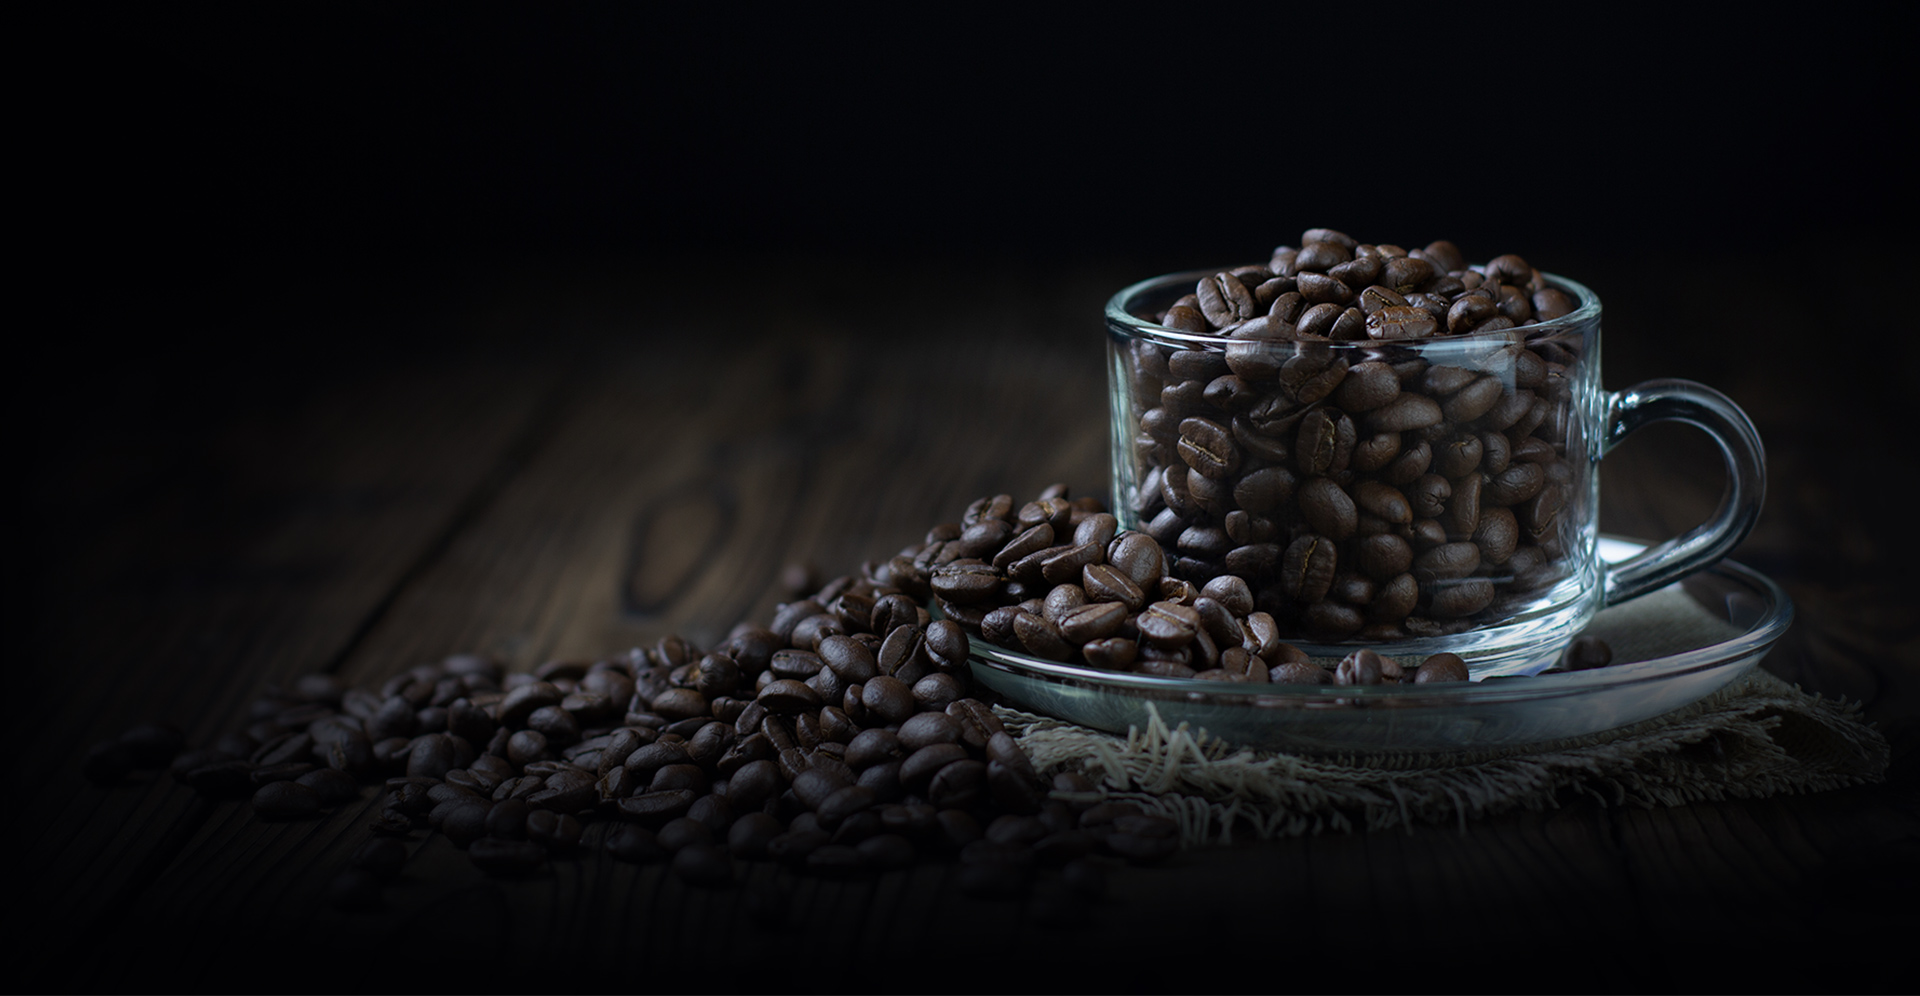
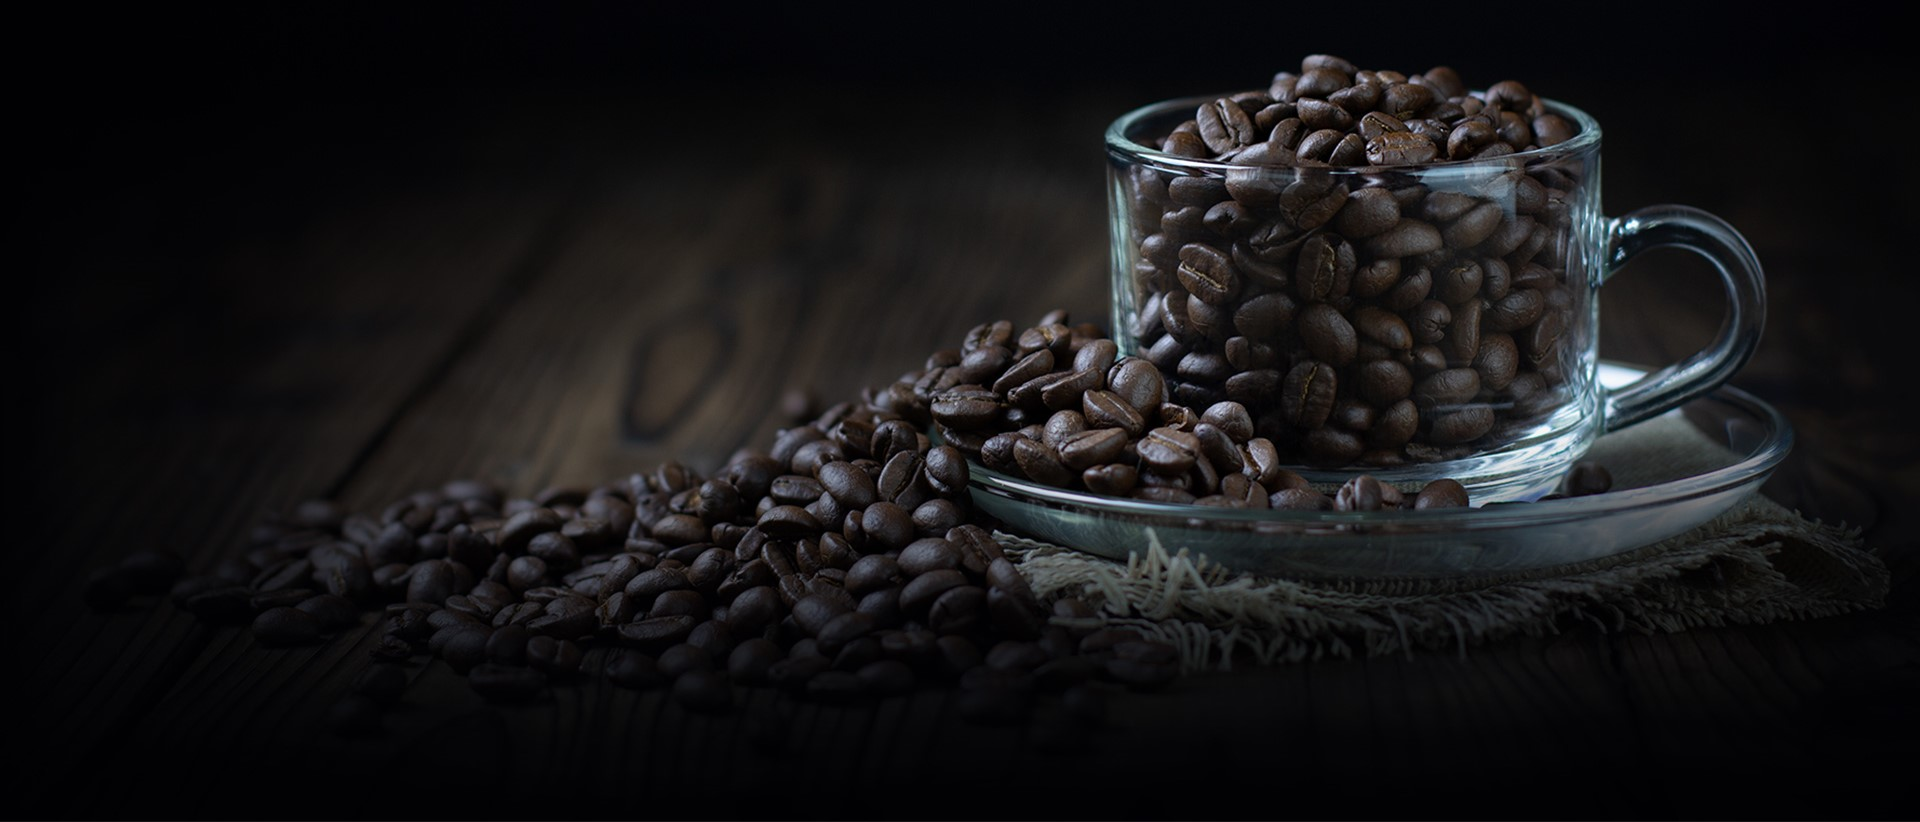
header completed

diff --git a/index.html b/index.html
@@ -22,7 +22,7 @@
 <body>
 
     <!-- Navbar Section Start -->
-    <nav id="navbar" class="navbar navbar-expand-lg fixed-top">
+    <nav id="navbar" class="navbar navbar-expand-lg sticky-top">
         <div class="container">
             <a class="navbar-brand" href="#home">
                 <img src="assets/images/logo.png" alt="Coffee Shop" title="Coffee Shop">
@@ -70,6 +70,23 @@
     </nav>
     <!-- Navbar Section End -->
 
+    <!-- Header Section Start -->
+    <header id="header" class="align-items-center">
+        <section class="container">
+            <div class="row content align-items-center">
+                <div class="col col-lg-6 text-center text-md-start py-5">
+                    <h1 class="display-3 fw-semibold text-uppercase mt-5 mb-3">
+                        fresh coffee in the morning
+                    </h1>
+                    <p class="m-0 lead mb-4">
+                        Lorem ipsum dolor sit amet consectetur adipisicing elit. Deserunt facere eius voluptatem sed itaque numquam delectus recusandae a.
+                    </p>
+                    <a class="a" href="#">Get Yours Now</a>
+                </div>
+            </div>
+        </section>
+    </header>
+    <!-- Header Section End -->
 
 
 

diff --git a/assets/css/style.css b/assets/css/style.css
@@ -3,7 +3,7 @@
 
 :root {
     --primary-color: #d3ad7f;
-    --secondary-color: ;
+    --secondary-color: #13131a;
     --dark-color: #000;
     --light-color: #fff;
 }
@@ -22,10 +22,23 @@ body {
     color: var(--light-color);
 }
 
+.a {
+    text-decoration: none;
+    color: var(--light-color);
+    background-color: var(--primary-color);
+    padding: 10px 30px;
+    transition: .3s ease-in-out;
+
+    &:hover {
+        letter-spacing: 2px;
+    }
+}
+
 /* Common codes end */
 
 /* Navbar start */
 #navbar {
+    background-color: var(--dark-color);
     border-bottom: .1rem solid rgba(255, 255, 255, .3);
 
     .nav-link {
@@ -66,3 +79,15 @@ body {
 }
 
 /* Navbar end */
+
+/* Header start */
+#header {
+    min-height: 100vh;
+    background: url(../images/home-img.jpeg) no-repeat;
+    background-size: cover;
+    background-position: center;
+
+    .content {}
+}
+
+/* Header end */
